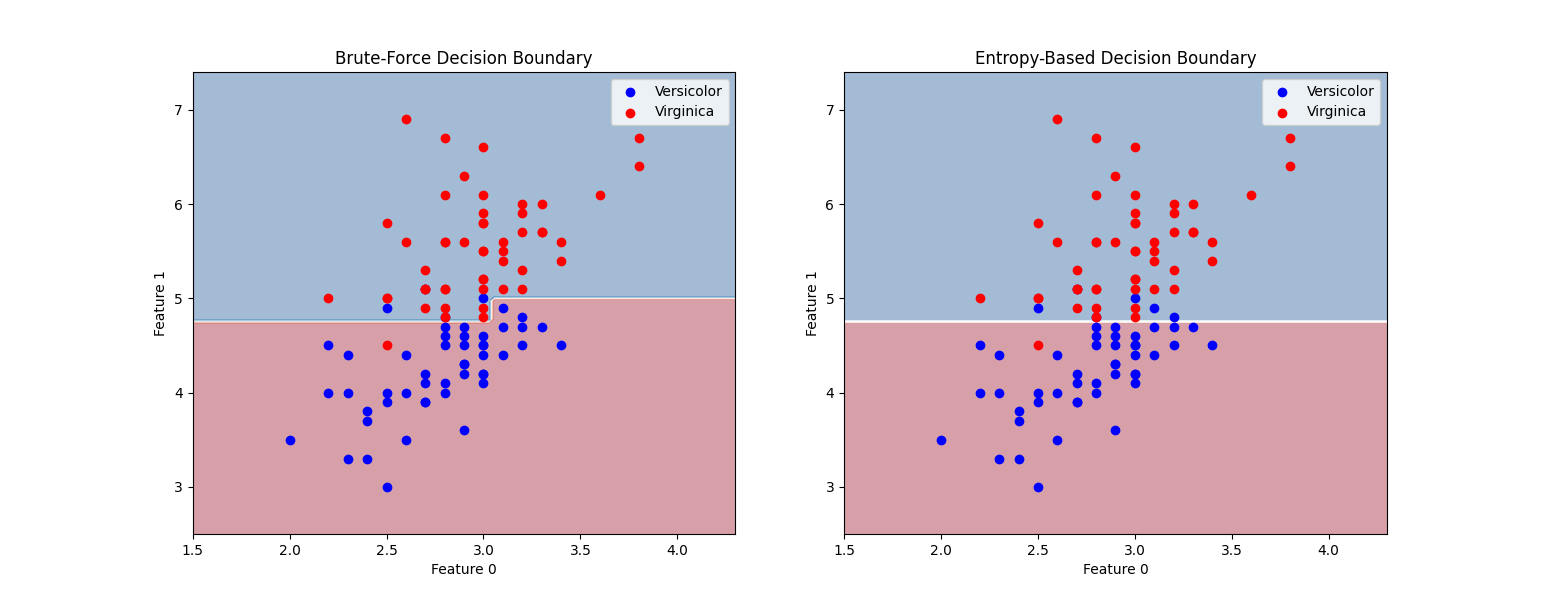
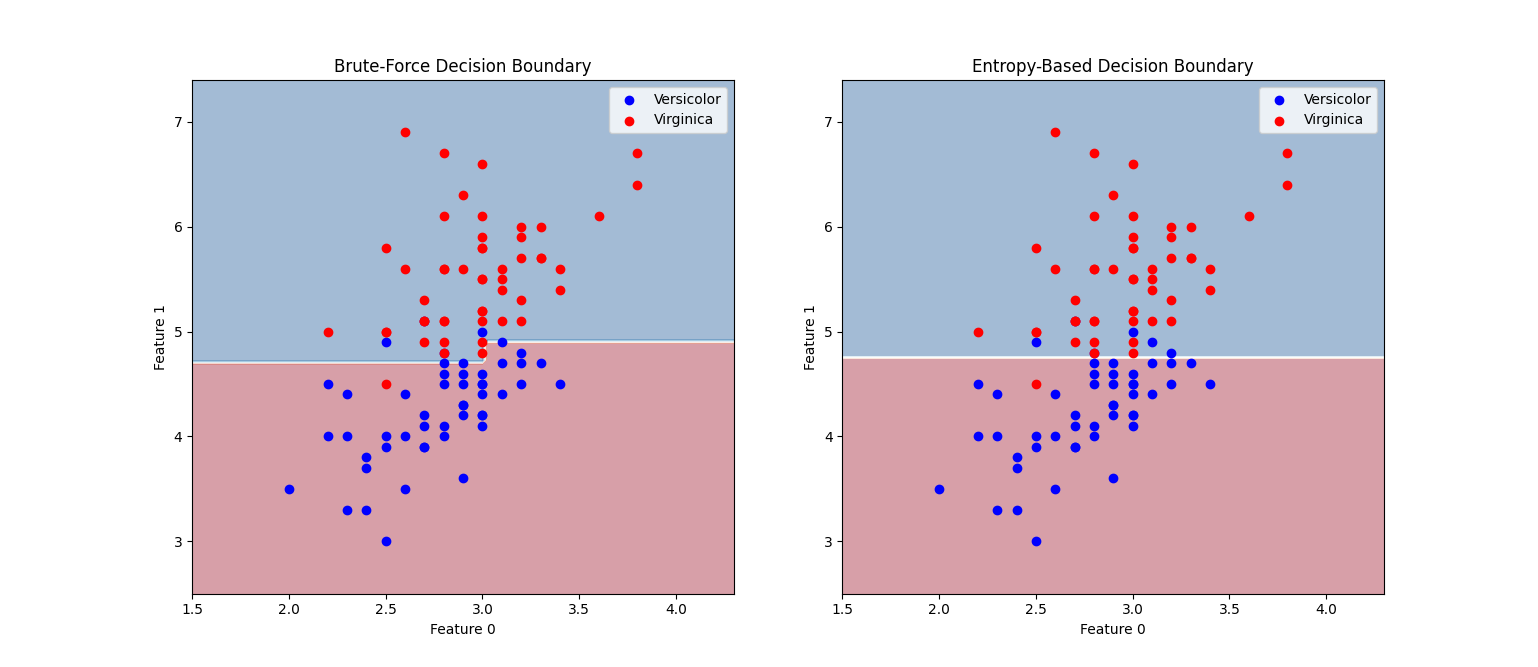
Refactor decision tree implementation for improved split generation and leaf node labeling
- Updated the split generation method to use actual coordinate values instead of midpoints for better accuracy.
- Changed the leaf node labeling logic to use majority voting instead of mean calculation for more reliable predictions.
- Updated binary files for decision trees and related visualizations.

diff --git a/models/decision_trees.py b/models/decision_trees.py
@@ -42,23 +42,22 @@ class DecisionTreeBruteForce:
         """Generate all possible splits for each feature."""
         splits = []
         for feature_idx in range(X.shape[1]):
-            values = sorted(set(X[:, feature_idx]))
-            thresholds = [(values[i] + values[i+1])/2 for i in range(len(values)-1)]
-            splits.extend([(feature_idx, threshold) for threshold in thresholds])
+            # Use actual coordinate values as potential splits
+            values = sorted(X[:, feature_idx])
+            splits.extend([(feature_idx, value) for value in values])
         return splits
 
     def _generate_all_trees(self, X: np.ndarray, y: np.ndarray, depth: int = 1) -> List[Node]:
         """Generate all possible valid trees recursively."""
-        # Base case: if max depth reached or pure node, return leaf
-
         if depth >= self.max_depth or len(set(y)) == 1:
-            return [Node(label=1 if np.mean(y) >= 0.5 else 0, level=depth)]
+            # Use majority vote for leaf nodes
+            return [Node(label=1 if np.sum(y) > len(y)/2 else 0, level=depth)]
 
         trees = []
-        # Always consider leaf node as an option
-        trees.append(Node(label=1 if np.mean(y) >= 0.5 else 0, level=depth))
+        # Always consider leaf node as an option with majority vote
+        trees.append(Node(label=1 if np.sum(y) > len(y)/2 else 0, level=depth))
         
-        # Try every possible split
+        # Try every possible split using actual coordinate values
         splits = self._get_possible_splits(X)
         for feature_idx, threshold in splits:
             # Split data
